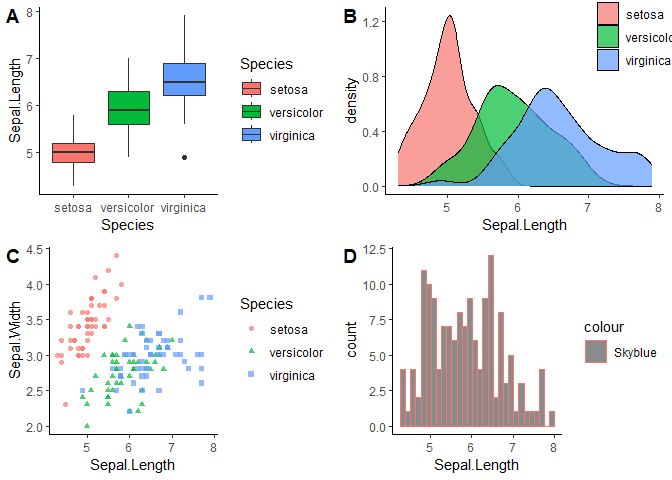
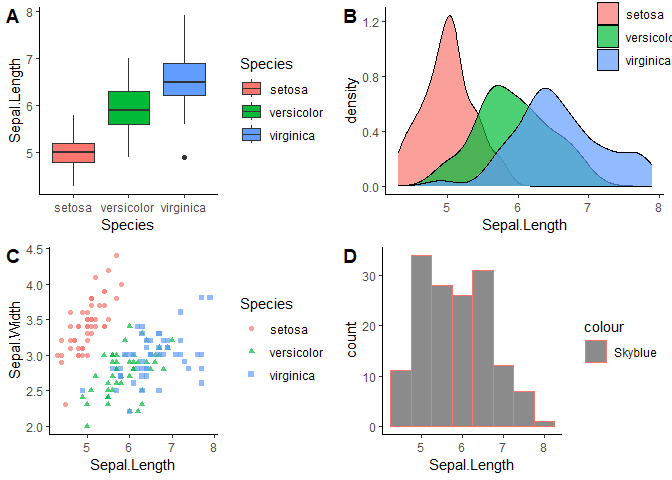
Fig error

Changed region(s): [[0.5312, 0.5312, 0.8438, 0.9375], [0.625, 0.9062, 0.7812, 1.0], [0.5312, 0.5, 0.5938, 0.5312]]

diff --git a/Chapter-1-Introduction.md b/Chapter-1-Introduction.md
@@ -22,6 +22,4 @@ analyzing data and making informed decisions based on that information.
 It is an essential tool for anyone working with data, and is widely used
 in many different fields.
 
-    ## `stat_bin()` using `bins = 30`. Pick better value with `binwidth`.
-
 ![](Chapter-1-Introduction_files/figure-markdown_strict/unnamed-chunk-2-1.png)
